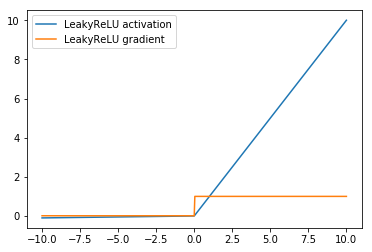
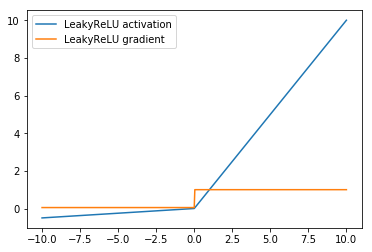
incorporate pr feedback

diff --git a/gluon-activations/gluon-activations.md b/gluon-activations/gluon-activations.md
@@ -1,12 +1,12 @@
 
-## MXNet Activations Tutorial
+## MXNet Activations Guide
 
-Deep neural networks encode a nonlinear, highly parametrized function from input to outputs. The nonlinearities that allow neural networks to be maximally expressive are referred to as activation functions. Over the course of the development of neural networks, several nonlinear activation functions have been introduced to make gradient-based deep learning tractable. 
+Deep neural networks are a way to express a nonlinear function with lots of parameters from input data to outputs. The nonlinearities that allow neural networks to capture complex patterns in data are referred to as activation functions. Over the course of the development of neural networks, several nonlinear activation functions have been introduced to make gradient-based deep learning tractable. 
 
-If you are looking to answer the question, which activation function should I use for my neural network model you should probably go with *ReLU*. Unless, you're trying to implement something like a gating mechanism, like in LSTMs or GRU cells, then you should opt for sigmoid and/or tanh in those cells. However, if you have a working model architecture and you're trying to improve it's performance by swapping out activation functions or treating the activation function as a hyperparameter, then you may want to try hand-designed activations like SELU or RL discovered functions like Swish. This tutorial describes these activation functions and others implemented in mxnet in detail.
+If you are looking to answer the question, 'which activation function should I use for my neural network model?', you should probably go with *ReLU*. Unless you're trying to implement something like a gating mechanism, like in LSTMs or GRU cells, then you should opt for sigmoid and/or tanh in those cells. However, if you have a working model architecture and you're trying to improve it's performance by swapping out activation functions or treating the activation function as a hyperparameter, then you may want to try hand-designed activations like SELU or a function discovered by reinforcement learning and exhaustive search like Swish. This guide describes these activation functions and others implemented in MXNet in detail.
 
 ### Visualizing Activations
-In order to compare the various activation functions and to understand the nuances of their differences we have a snippet of code to to plot the activation functions and their gradients.
+In order to compare the various activation functions and to understand the nuances of their differences we have a snippet of code to plot the activation functions (used in the forward pass) and their gradients (used in the backward pass).
 
 
 ```python
@@ -42,7 +42,7 @@ $$ \sigma(x) = \dfrac{1}{1 + e^x} $$ or alternatively
 
 $$ \sigma(x) = \dfrac{e^x}{e^x + 1} $$
 
-Note: the term sigmoid is overloaded and can be used to refer to the class of 's' shaped functions or particularly to the logistic function that we've just described. In MxNet the sigmoid activation specifically refers to logistic function sigmoid.
+Warning: the term sigmoid is overloaded and can be used to refer to the class of 's' shaped functions or particularly to the logistic function that we've just described. In MxNet the sigmoid activation specifically refers to logistic function sigmoid.
 
 
 
@@ -54,10 +54,10 @@ visualize_activation(data, gluon.nn.Activation('sigmoid'), "Sigmoid")
 ![png](output_5_0.png)
 
 
-The sigmoid activation has since fallen out of use as the preferred activation function in designing neural networks due to some of it's properties, shown in the plot above, like not being zero-centered and inducing vanishing gradients, that leads to poor performance during neural network training. Vanishing gradients here refers to the tendency of the gradient of the sigmoid function to be nearly zero for most input values. 
+The sigmoid activation has since fallen out of use as the preferred activation function in designing neural networks due to some of its properties, shown in the plot above, like not being zero-centered and inducing vanishing gradients, that leads to poor performance during neural network training. Vanishing gradients here refers to the tendency of the gradient of the sigmoid function to be nearly zero for most input values. 
 
 ### tanh
-The tanh activation function is also an s shaped curve defined by the mathematical equation:
+The tanh, or hyperbolic tangent, activation function is also an s shaped curve albeit one whose output values range from -1 to 1. It is defined by the mathematical equation:
 
 $$ tanh(x) = \dfrac{e^x - e^{-x}}{e^x + e^{-x}}$$ 
 
@@ -82,11 +82,11 @@ visualize_activation(data, gluon.nn.Activation('tanh'), "Tanh")
 ![png](output_8_0.png)
 
 
-The use tanh as activation functions in place of the logistic function was popularized by the success of the [LeNet architecture](http://yann.lecun.com/exdb/publis/pdf/lecun-01a.pdf) and the [methods paper](http://yann.lecun.com/exdb/publis/pdf/lecun-98b.pdf) by LeCun et al
+The use of tanh as activation functions in place of the logistic function was popularized by the success of the [LeNet architecture](http://yann.lecun.com/exdb/publis/pdf/lecun-01a.pdf) and the [methods paper](http://yann.lecun.com/exdb/publis/pdf/lecun-98b.pdf) by LeCun et al
 
 ### SoftSign
 
-The softsign activation is an alternative to tanh that is also centered at zero but converges asymptotically to -1 and 1 polynomially instead of exponentially. As such, there are a greater range of input values for which the softsign assigns an output of between -1 and 1.
+The softsign activation is an alternative to tanh that is also centered at zero but converges asymptotically to -1 and 1 polynomially instead of exponentially. This means that the softsign activation does not saturate as quickly as tanh. As such, there are a greater range of input values for which the softsign assigns an output of strictly between -1 and 1.
 
 $$ softsign(x) = \dfrac{x}{abs(x) + 1} $$
 
@@ -99,12 +99,12 @@ visualize_activation(data, gluon.nn.Activation('softsign'), "SoftSign")
 ![png](output_11_0.png)
 
 
-The softsign function is not a commonly used activation with most neural networks and suffers even more severely from the vanishing gradient problem as seen in the graph above
+The softsign function is not a commonly used activation with most neural networks and still suffers from the vanishing gradient problem as seen in the graph above.
 
 ## Rectifiers
 
 ### ReLU
-ReLU, or Rectified linear unit is the most common activation function in convolutional neural networks and introduces a simple nonlinearity. When the value of the input into ReLU is positive, then it retains the same value. When the value is negative then it becomes zero. In equation form, the ReLU function is given as:
+ReLU, or Rectified Linear Unit is the most common activation function in convolutional neural networks and introduces a simple nonlinearity. When the value of the input into ReLU is positive, then it retains the same value. When the value is negative then it becomes zero. In equation form, the ReLU function is given as:
 
 $$ ReLU(x) = \mathtt{max}(0, x) $$
 
@@ -122,15 +122,15 @@ visualize_activation(data, gluon.nn.Activation('relu'), "ReLU")
 ![png](output_15_0.png)
 
 
-As shown above, the ReLU activation ameliorates the vanishing gradient problem associated with the sigmoid family of activations, by having a larger (infinite) range of values where it's gradient is non-zero.
+As shown above, the ReLU activation mitigates the vanishing gradient problem associated with the sigmoid family of activations, by having a larger (infinite) range of values where it's gradient is non-zero. However, one drawback of ReLU as an activation function is a phenomenon referred to as the 'Dying ReLU', where gradient-based parameter updates can happen in such a way that the gradient flowing through a ReLU unit is always zero and the connection is never activated. This can largely be addressed by ensuring that the tuning the learning rate to ensure that it's not set too large when training ReLU networks.
 
 ### SoftReLU
 
 SoftReLU also known as SmoothReLU or SoftPlus is a nonlinear activation function that takes the form
 
-$$ softReLU(x) = log(1 + e^x)$$
+$$ SoftReLU(x) = log(1 + e^x)$$
 
-The softReLU can be seen as a smooth version of the ReLU by observing that it's derivative is the sigmoid, seen below, which is a smooth version of the gradient of the ReLU shown above
+The SoftReLU can be seen as a smooth version of the ReLU by observing that it's derivative is the sigmoid, seen below, which is a smooth version of the gradient of the ReLU shown above.
 
 
 ```python
@@ -143,32 +143,34 @@ visualize_activation(data, gluon.nn.Activation('softrelu'), "SoftReLU")
 
 ### Leaky ReLU
 
-Leaky ReLUs are a variant of ReLU that allow a small gradient when the value is negative. The equation for the LeakyReLU is:
+Leaky ReLUs are a variant of ReLU that multiply the input by a small positive parameter $\alpha$ when the value is negative. Unlike the ReLU which sets the activation and gradient for negative values to zero, the LeakyReLU allows a small gradient. The equation for the LeakyReLU is:
 
 $$ LeakyReLU(\alpha, x) = \begin{cases}
     x,& \text{if } x\geq 0\\
     \alpha x,              & \text{otherwise}
 \end{cases}$$ 
 
-where $\alpha > 0$ is small positive number. Here is a visualization for the LeakyReLU with $\alpha = 0.01$
+where $\alpha > 0$ is small positive number. In MXNet, by default the $\alpha$ parameter is set to 0.01.
+
+Here is a visualization for the LeakyReLU with $\alpha = 0.05$
 
 
 ```python
-visualize_activation(data, gluon.nn.LeakyReLU(0.01), "LeakyReLU")
+visualize_activation(data, gluon.nn.LeakyReLU(0.05), "LeakyReLU")
 ```
 
 
 ![png](output_20_0.png)
 
 
-As shown in the graph, the LeakyReLU's gradient is non-zero everywhere, in an attempt to address the ReLU's gradient being zero for all negative values
+As shown in the graph, the LeakyReLU's gradient is non-zero everywhere, in an attempt to address the ReLU's gradient being zero for all negative values.
 
 ### PReLU
 The PReLU activation function, or Parametric Leaky ReLU introduced by [He et al](https://arxiv.org/pdf/1502.01852.pdf), is a version of LeakyReLU that learns the parameter $\alpha$ during training. An initialization parameter is passed into the PreLU activation layer and this is treated as a learnable parameter that is updated via gradient descent during training. This is in contrast to LeakyReLU where $\alpha$ is a hyperparameter.
 
 
 ```python
-prelu = gluon.nn.PReLU(mxnet.init.Normal(0.01))
+prelu = gluon.nn.PReLU(mxnet.init.Normal(0.05))
 prelu.initialize()
 visualize_activation(data, prelu, "PReLU")
 ```
@@ -227,7 +229,7 @@ The swish function is given as
 
 $$ swish(x) = x\cdot\sigma(\beta x)$$
 
-where $\sigma$ is the sigmoid activation function $\sigma(x) = \frac{1}{1 + e^{-x}}$ described above and $\beta$ is a hyperparameter set to 1 by default in mxnet
+where $\sigma$ is the sigmoid activation function $\sigma(x) = \frac{1}{1 + e^{-x}}$ described above and $\beta$ is a hyperparameter set to 1 by default in MXNet.
 
 
 ```python
